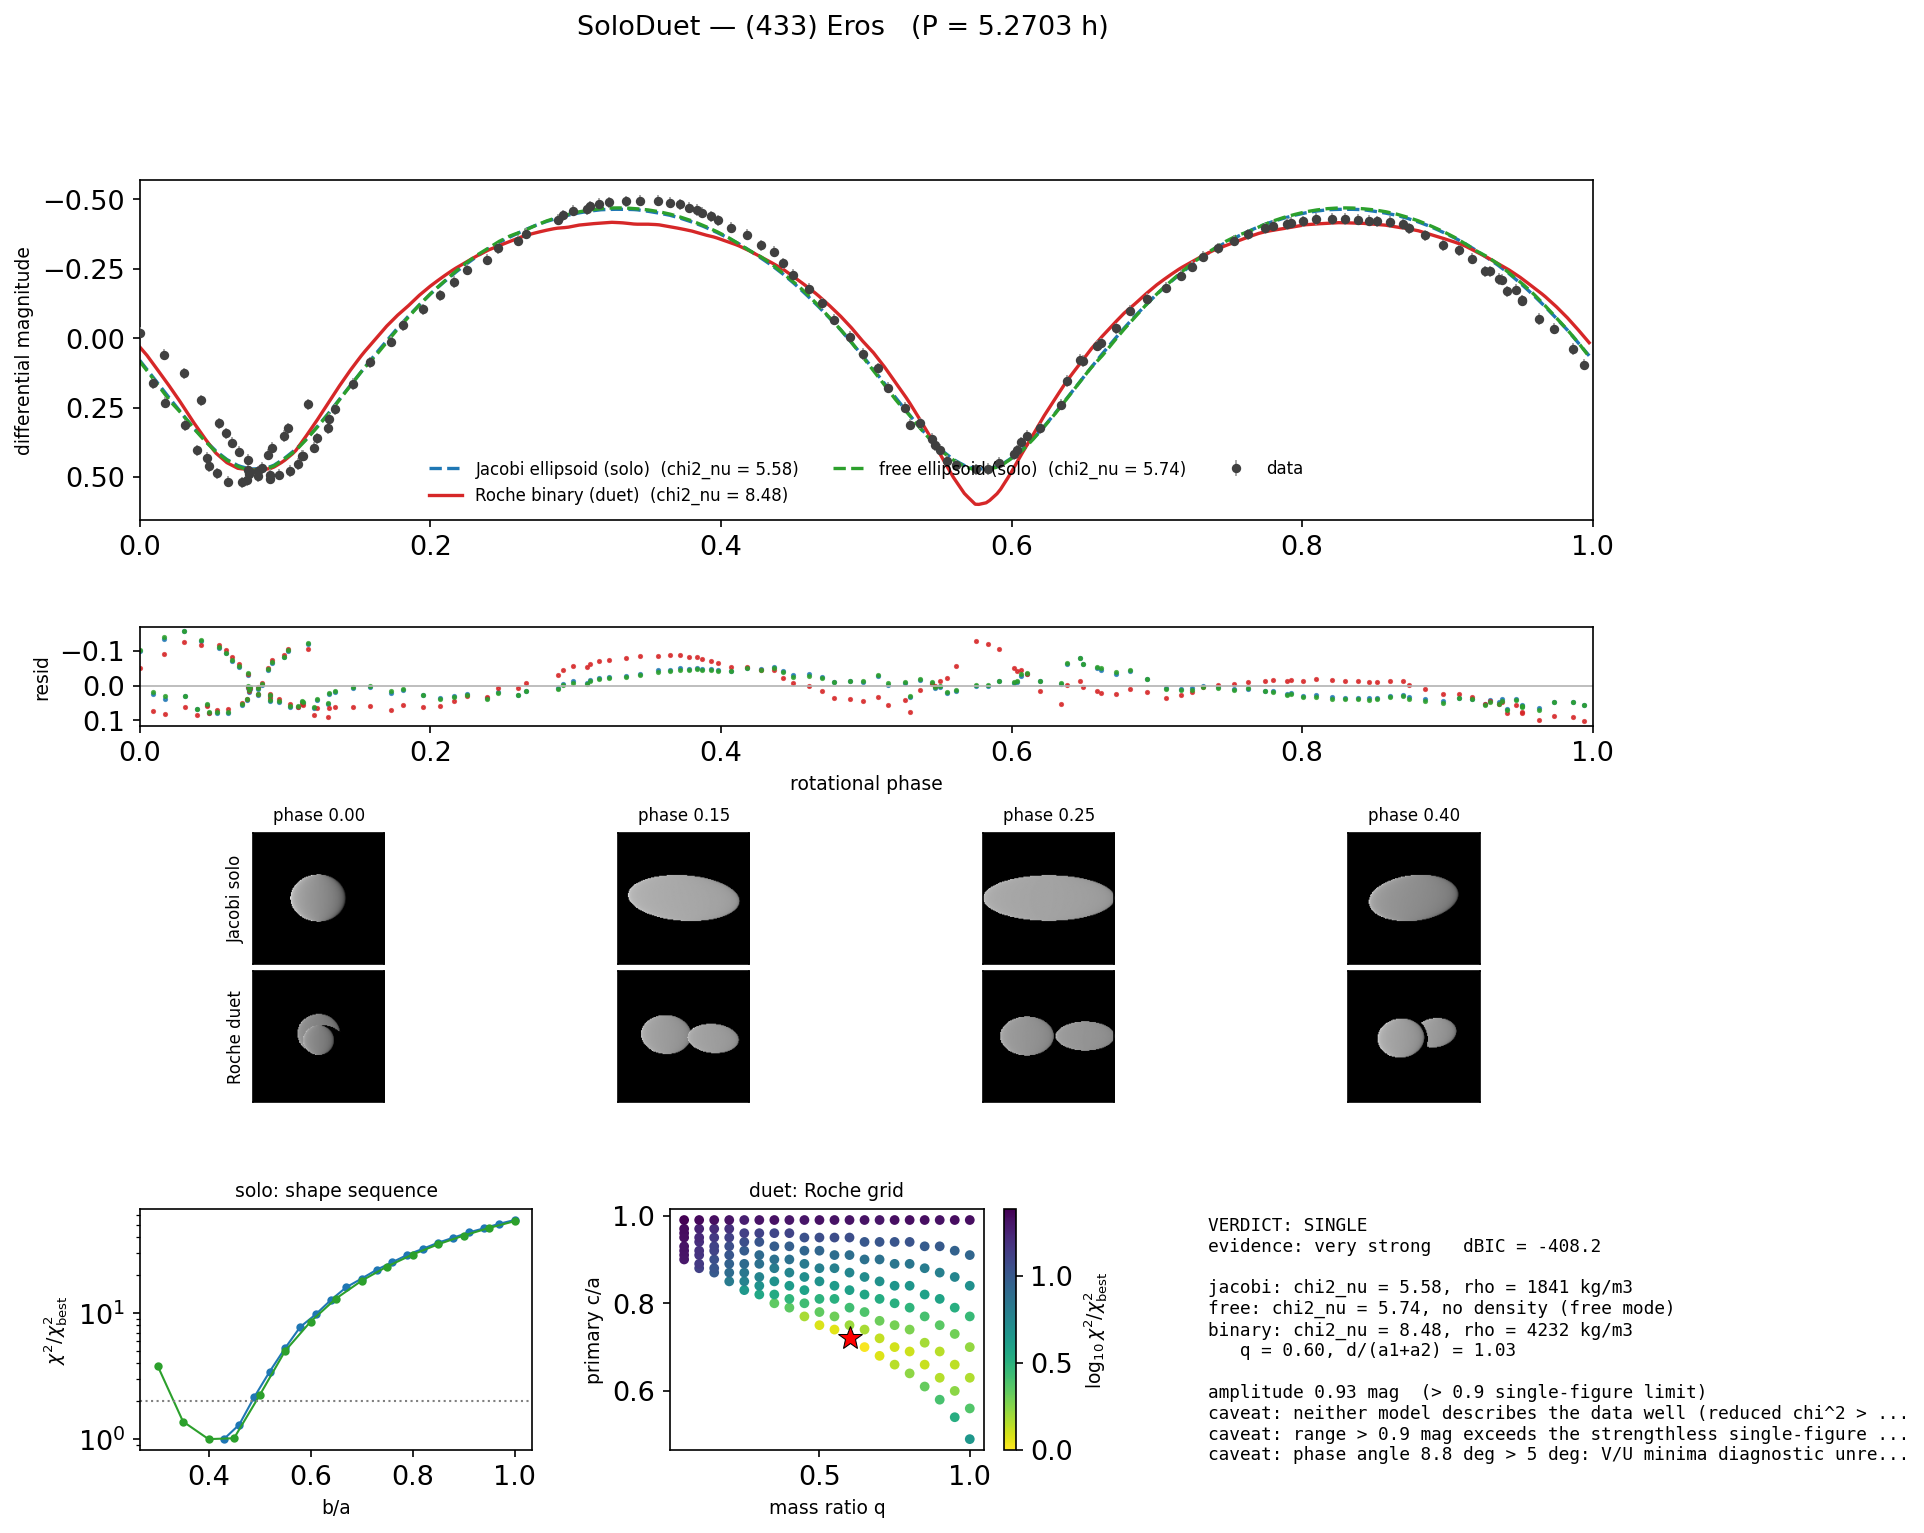
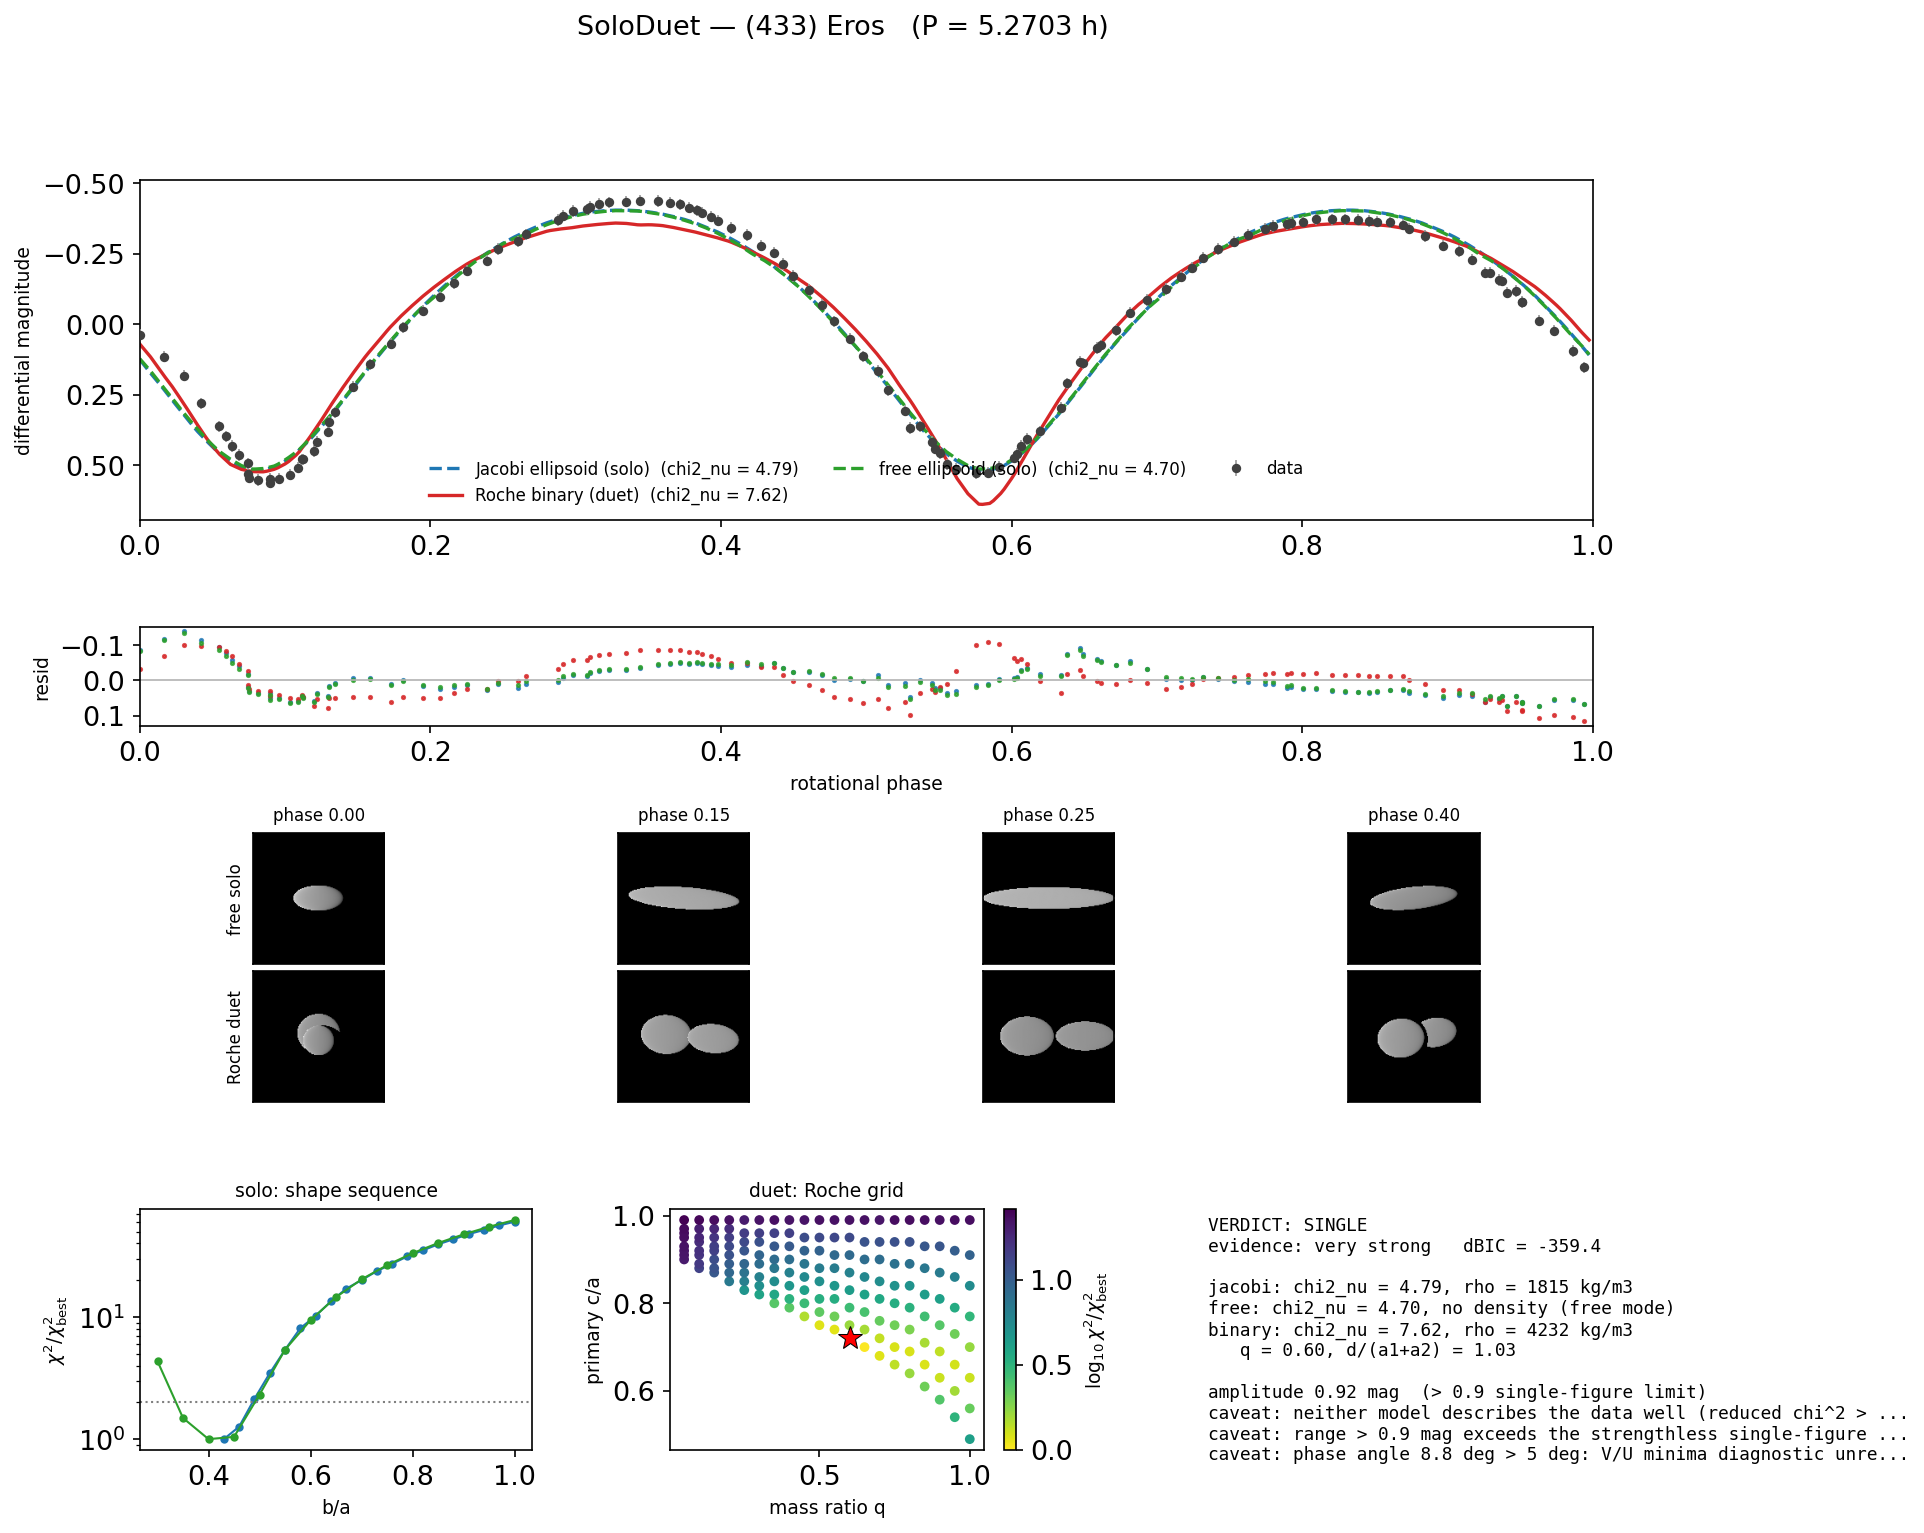
Replace Eros demo data with the internally consistent first rotation
The archived DAMIT block spans 1.12 rotations and its final 18 points repeat already-covered phases ~8 minutes early -- an internal timing inconsistency in the archival composite (no period error or synodic effect can act within one night). The shipped file now keeps only the first full rotation, documented in its provenance header; the summary figure no longer shows the double-track at the first minimum.

README: updated Eros numbers (SINGLE, dBIC = -359, chi2_nu 7.6 vs 4.7, free b/a = 0.39) and added two footnotes: the data curation rationale, and a cautionary note that a neighboring night flips the verdict to BINARY because the Himeros concavity deepens Eros's minima at extreme aspects -- the fundamental degeneracy of single-night light-curve discrimination.

diff --git a/README.md b/README.md
@@ -219,7 +219,7 @@ pipeline:
 | object | ground truth | SoloDuet verdict | recovered vs. truth |
 |---|---|---|---|
 | (216) Kleopatra | bilobed "dog-bone" (radar/AO: Ostro et al. 2000; Shepard et al. 2018); ρ = 3.38 g/cm³ from its moons (Marchis et al. 2021) | **BINARY** (very strong, ΔBIC = +98) | near-contact separation d/(a₁+a₂) = 0.98; ρ = 3.75 g/cm³ (11% above the satellite-orbit value) |
-| (433) Eros | single elongated body (NEAR Shoemaker: 34.4 × 11.2 × 11.2 km; Veverka et al. 2000) | **SINGLE** (very strong, ΔBIC = −408) | free-ellipsoid b/a = 0.40 vs. 0.33 in situ; binary model rejected at χ²ᵥ 8.5 vs. 5.6 |
+| (433) Eros | single elongated body (NEAR Shoemaker: 34.4 × 11.2 × 11.2 km; Veverka et al. 2000) | **SINGLE** (very strong, ΔBIC = −359) | free-ellipsoid b/a = 0.39 vs. 0.33 in situ; binary model rejected at χ²ᵥ 7.6 vs. 4.7 |
 
 ![Kleopatra fit](docs/images/kleopatra_fit.png)
 
@@ -230,9 +230,24 @@ recovered pair sits at contact with q ≈ 0.9.*
 ![Eros fit](docs/images/eros_fit.png)
 
 *(433) Eros: the mirror-image outcome — the binary model over-deepens the
-minima and is rejected (χ²ᵥ 8.5 vs. 5.6), while the elongated single body
+minima and is rejected (χ²ᵥ 7.6 vs. 4.7), while the elongated single body
 wins decisively despite its range exceeding the strengthless 0.9-mag limit
 (Eros is a strength-dominated monolith, and the summary says so).*
+
+Two honest footnotes on the Eros data. First, the archived 1975 night spans
+1.12 rotations, and its final 18 points — a repeat of already-covered
+rotational phases — arrive ~8 minutes early relative to the first coverage,
+an internal timing inconsistency in the archival composite (no period error
+or synodic effect can produce it within a single night); only the first
+full rotation is kept, as documented in the data-file header. Second, a
+**cautionary result**: a neighboring night from the same apparition, with a
+slightly larger amplitude (1.12 mag), flips the verdict to BINARY
+(ΔBIC ≈ +48). Eros is not a convex ellipsoid — the large Himeros concavity
+deepens its minima at extreme equatorial aspects into binary-mimicking
+shapes. This is the fundamental degeneracy of light-curve-only
+discrimination: a decisive "binary" verdict from a *single* night should
+always be tempered by multi-apparition coverage, exactly as Lacerda &
+Jewitt (2007) do for (624) Hektor.
 
 Both curves have ranges just above the 0.9-mag strengthless single-figure
 limit — Kleopatra because it *is* two lobes, Eros because it is a
